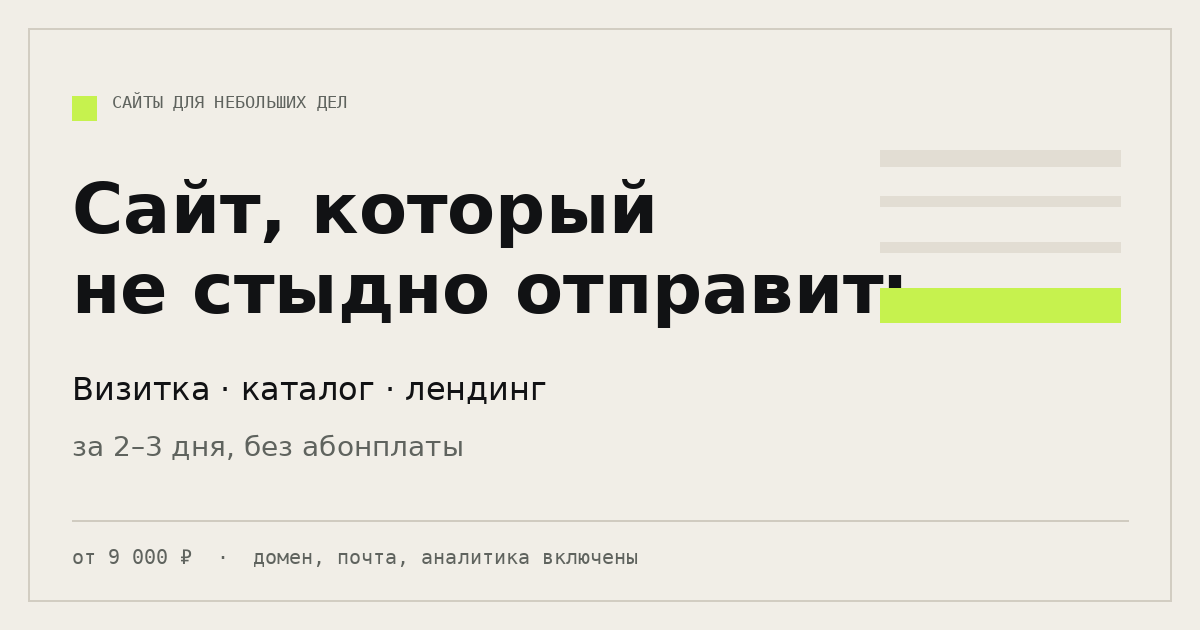
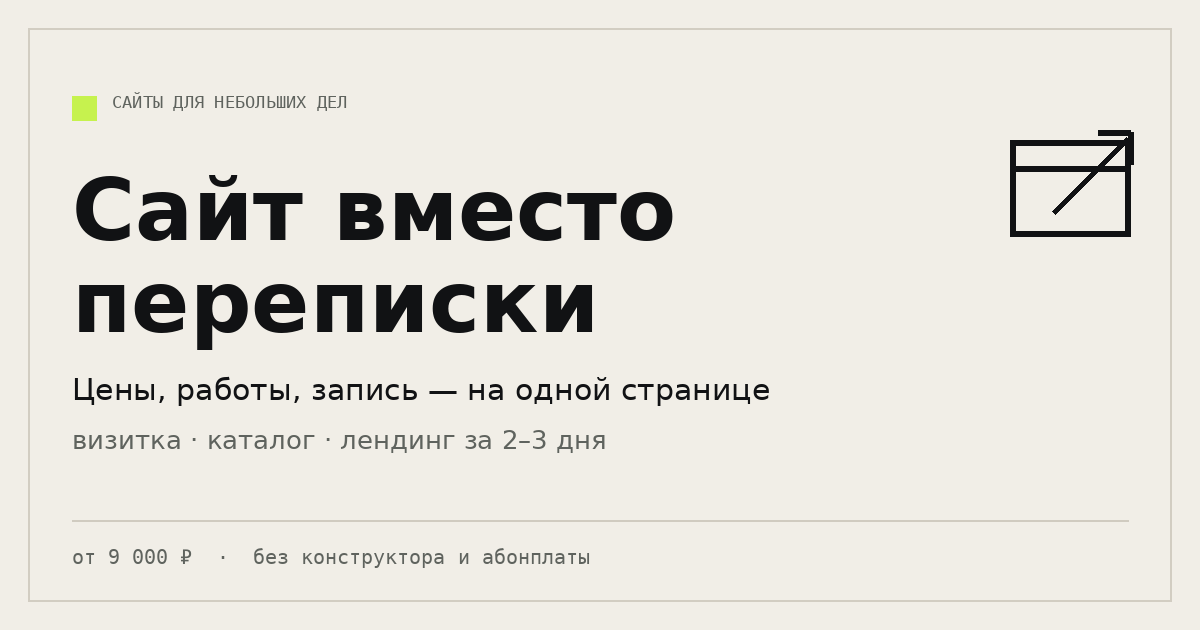
Новый знак и слово «сайты», заголовок «Сайт вместо переписки», Max и WhatsApp в контактах

diff --git a/src/config.ts b/src/config.ts
@@ -6,9 +6,14 @@
  */
 
 export const config = {
+  // Бренд: слово в шапке и футере
+  brand: {
+    wordmark: "сайты",
+    tagline: "сайты для небольших дел",
+  },
+
   name: "Иван Раенко",
   shortName: "Иван",
-  initials: "ИР",
   role: "Сайты для небольших дел",
   city: "Новосибирск",
 
@@ -18,6 +23,14 @@ export const config = {
   contacts: {
     // TODO: проверьте ссылку — сейчас взята из резюме
     telegram: { label: "@devopsnsk", url: "https://t.me/devopsnsk" },
+    // TODO: проверьте ссылку Max — сейчас взята из резюме
+    max: {
+      label: "профиль",
+      short: "Max",
+      url: "https://max.ru/u/f9LHodD0cOJRMeqwry1H3VOwIUXQYiUHdfjxw4NfCPLSptlnNq9DlD3CL60",
+    },
+    // TODO: проверьте номер для WhatsApp (сейчас — номер из резюме)
+    whatsapp: { label: "+7 913 019-71-99", short: "WhatsApp", url: "https://wa.me/79130197199" },
     // TODO: проверьте почту
     email: { label: "devopsnskru@gmail.com", url: "mailto:devopsnskru@gmail.com" },
   },
@@ -44,9 +57,9 @@ export const config = {
   },
 
   meta: {
-    title: "Сайты для небольших дел — визитка, каталог, лендинг",
+    title: "Сайт вместо переписки — визитка, каталог, лендинг за 2–3 дня",
     description:
-      "Сделаю сайт для мастерской, салона, автосервиса или репетитора: визитка, каталог или лендинг за 2–3 дня. Без конструкторов и ежемесячной платы. Цена известна заранее.",
+      "Сделаю сайт, на который просто дают ссылку: цены, работы и запись на одной странице. Для мастерской, салона, автосервиса, репетитора. За 2–3 дня, без конструктора и абонплаты.",
     ogImage: "/og.png",
   },
 } as const;
